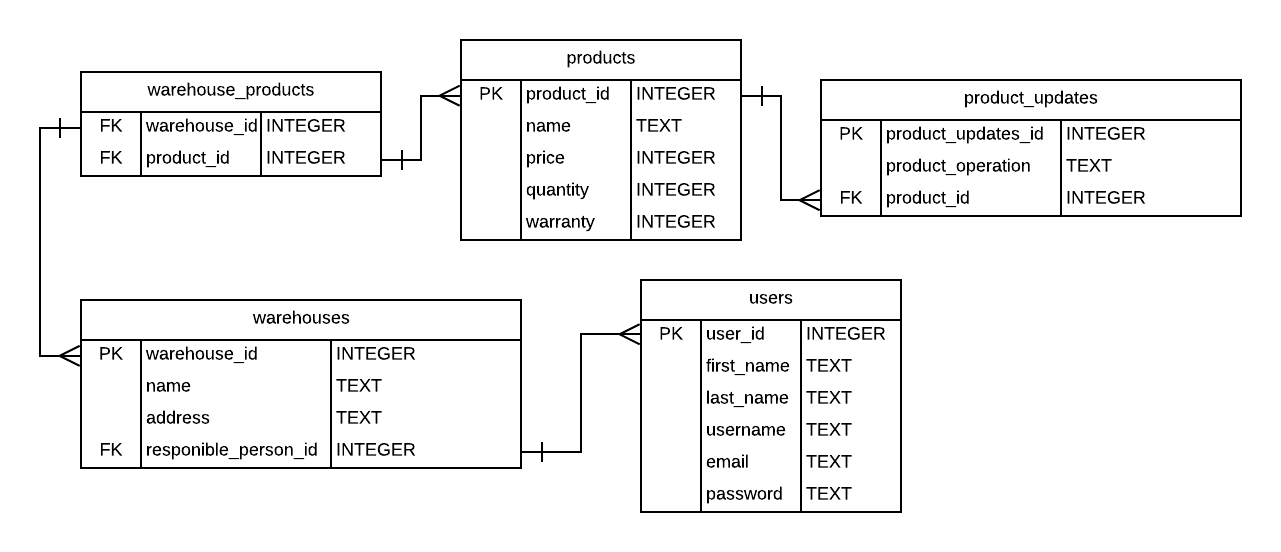
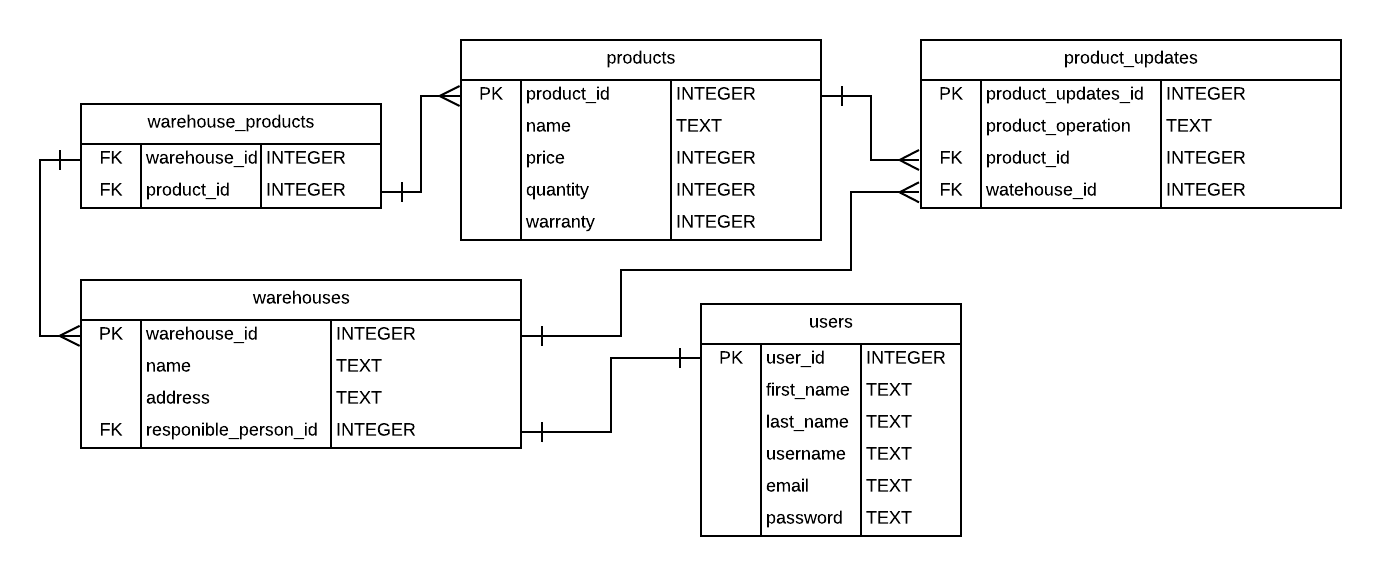
ispravke u ERD, dodati i binarni i XML fajlovi

diff --git a/testovi/sample/RegisterControllerTest.java b/testovi/sample/RegisterControllerTest.java
@@ -1,11 +1,9 @@
 package sample;
 
-import javafx.application.Platform;
 import javafx.fxml.FXMLLoader;
 import javafx.scene.Parent;
 import javafx.scene.Scene;
 import javafx.scene.control.*;
-import javafx.scene.input.KeyCode;
 import javafx.stage.Stage;
 import org.junit.jupiter.api.Test;
 
@@ -18,7 +16,6 @@ import org.testfx.framework.junit5.Start;
 
 import java.io.File;
 import java.sql.*;
-import java.util.Map;
 import java.util.ResourceBundle;
 
 
@@ -47,6 +44,13 @@ class RegisterControllerTest {
 
     @Test
     void registerAction(FxRobot robot) {
+        File dbfile = new File("database.db");
+        dbfile.delete();
+
+        model = new UserModel();
+        model.regenerate();
+        model.putData();
+
         robot.clickOn("#lblNewAcc") ;
         robot.clickOn("#btnRegister");
         dealWithDialog(robot);
